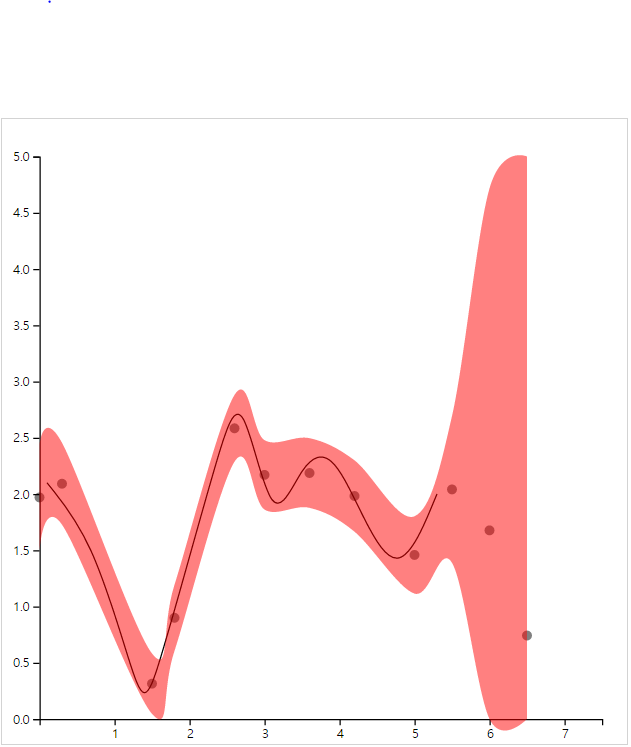
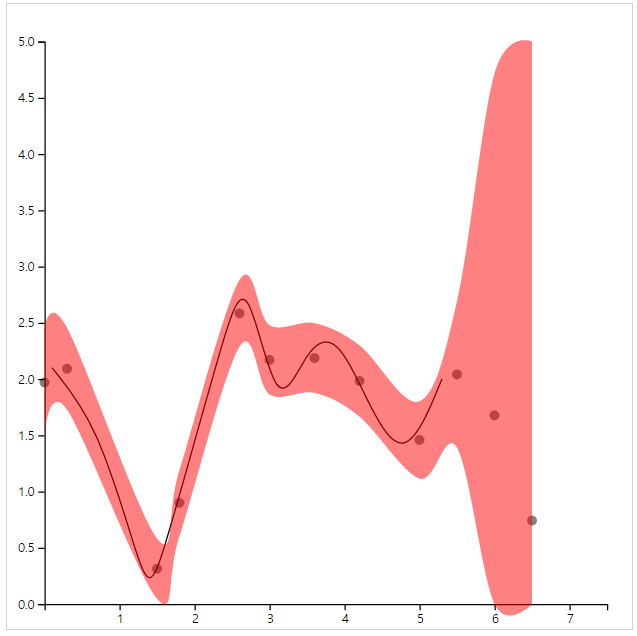
Fix Readme

diff --git a/readme.md b/readme.md
@@ -1,9 +1,9 @@
 # Basic Gaussian Process on Tensorflow
 
-This is a simple implementation of (1D) Gaussian Process Regression. Training part was implemented by tensorflow, and the visualization part was made by D3.
+This is a simple implementation of (1D) Gaussian Process Regression. Training part was implemented by Tensorflow, and the visualization part was made by D3.
 
-<center>
-![Sample Image](http://i.imgur.com/vOmyHr5.png)
+<div style="text-align:center">
+![Sample Image](http://i.imgur.com/zqC98Cp.png)
 Sample Graph.
 Black line represents original data, and dots mean inferenced function value. Red area indicates 95% confidence interval.
-</center>
+</div>
